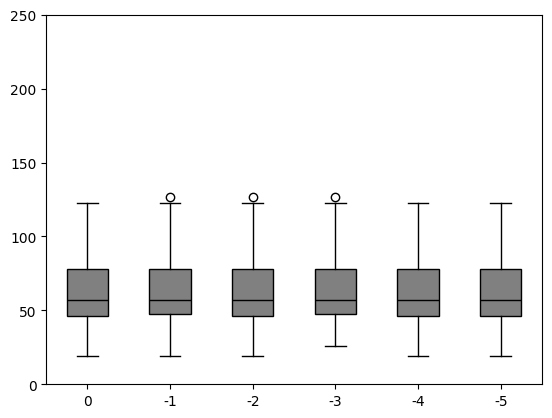
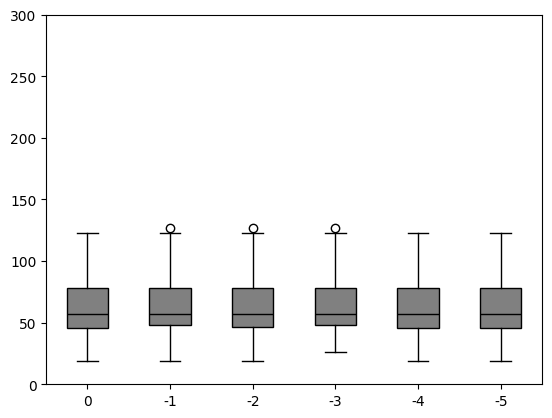
comparison limit update

diff --git a/shift_comparisons.py b/shift_comparisons.py
@@ -11,7 +11,7 @@ for j in range(0, 1):
 
     fileResultsDetailsData = pd.read_csv("PSO(M) 0\\experiment_details.csv")
     objective_name = "rastrigin"
-    optimizer_name = "PSO"
+    optimizer_name = "PSOM"
 
     detailedData = fileResultsDetailsData[
         (fileResultsDetailsData["Optimizer"] == optimizer_name)
@@ -24,7 +24,7 @@ for j in range(0, 1):
     for i in range(5):
         fileResultsDetailsData = pd.read_csv("PSO(M) 30x50x6000\\Both Shift " + str(i+1) +"\\experiment_details.csv")
         objective_name = "rastrigin"
-        optimizer_name = "PSO"
+        optimizer_name = "PSOM"
 
         detailedData = fileResultsDetailsData[
             (fileResultsDetailsData["Optimizer"] == optimizer_name)
@@ -51,7 +51,7 @@ for j in range(0, 1):
     #     bbox_to_anchor=(1.2, 1.02),
     # )
     plt.gca().set_ylim([0, 300])
-    fig_name = "PSO(M) 30x50x6000\\" + "/PSO Both Shift Comparison" + ".png"
+    fig_name = "PSO(M) 30x50x6000\\" + "/PSOM Both Shift Comparison" + ".png"
     #plt.set_cmap(plt.get_cmap("gray"))
     plt.savefig(fig_name, bbox_inches="tight")
     plt.clf()
